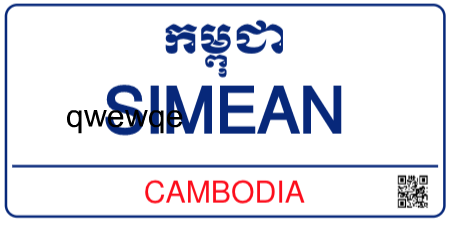
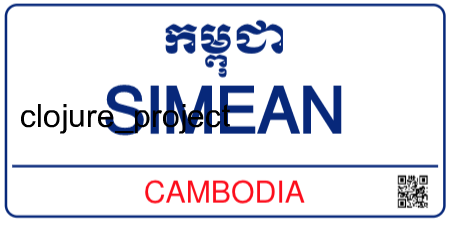
13-Jan-2020 :Set text to center

Changed region(s): [[0.0304, 0.4565, 0.5174, 0.5783]]

diff --git a/app.js b/app.js
@@ -7,39 +7,48 @@ const app = express();
 const path = require("path");
 const writeText = "add-text-to-image";
 const bodyParser = require("body-parser");
+var colors = require('colors');
+
 var cors = require("cors");
 
 var Jimp = require("jimp");
-var fileName = "./img/index.png";
+var fileName = "./img/index.jpg";
 var loadedImage;
 
-function writeImg(newName) {
-  Jimp.read(fileName)
+ function writeImg(newName) {
+   
+    Jimp.read(fileName)
     .then(function(image) {
       loadedImage = image;
-      return Jimp.loadFont(Jimp.FONT_SANS_32_BLACK);
+      return (Jimp.loadFont(Jimp.FONT_SANS_32_BLACK));
     })
-    .then(function(font) {
+    .then(  function(font) {
+      var textWidth = Jimp.measureText(font, newName);
+      var textHight = Jimp.measureTextHeight(font, newName);
       loadedImage
         .print(
           font,
-          100,
-          50,
-          {
-            text: newName,
-            alignmentX: Jimp.HORIZONTAL_ALIGN_CENTER,
-            alignmentY: Jimp.VERTICAL_ALIGN_MIDDLE
-          },
-          50,
-          60
-        )
-        .write("./img-temp/hello.png" );
-    })
+          loadedImage.bitmap.width/2- textWidth/2,
+          loadedImage.bitmap.height/2- textHight/2, 
+          {   
+            text:newName,
+            //alignmentX: Jimp.HORIZONTAL_ALIGN_CENTER,                                                                                                                      
+            //alignmentY: Jimp.VERTICAL_ALIGN_MIDDLE,
+            }, textWidth, textHight)
+        
+           
+        
+        .write("./img-temp/hello.jpg")
+          
+      
+        
+      
     .catch(function(err) {
       console.error(err);
     });
+    
 }
-
+    )}
 app.use(cors());
 app.use(bodyParser.urlencoded({ extended: true }));
 
@@ -47,15 +56,28 @@ app.get("/", (req, res) => {
   res.sendFile(path.join(__dirname + "/index.html"));
 });
 
-app.post("/name", (req, res) => {
+  // naming route
+app.post("/name", async(req, res) => {
   const newName = {name: req.body.name};
   console.log(newName.name)
-  writeImg(newName.name);
-
-  setTimeout(() => {
-    res.sendFile(path.join(__dirname + "/img/index.png"));
-  }, 5000);
+  writeImg(newName.name)
+  console.log("hello1")
+  res.sendFile(path.join(__dirname + "/img-temp/hello.jpg"));
+  console.log('hello')
+  //res.sendFile(path.join(__dirname + "/img-temp/hello.png"));
+  
+  //res.send('hello');
+  // setTimeout(() => {
+  //   res.sendFile(path.join(__dirname + "/img-temp/hello.png"));
+  // }, 5000);
+  // res.send("Hello");
 });
+
+
+
+
+
+//Listen on port 3000
 app.listen(3000, () => {
   console.log(chalk.bold.underline.greenBright("http://localhost:3000"));
 });
